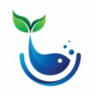
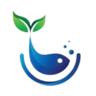
V1.3

Changed region(s): [[0.125, 0.0938, 0.8438, 0.9062], [0.7188, 0.4062, 0.75, 0.4688]]

diff --git a/aquapon.css b/aquapon.css
@@ -1,18 +1,42 @@
 body,html {
-    background-image: linear-gradient(rgb(126, 208, 235),rgb(47, 90, 176));
-    height: 100%;
+    background-color: lightblue;
     margin: 10px;
     font-family: "Comfortaa";
     font-size: 15px;
+    height: 1500px;
+}
+.hide {
+    height: 90px;
+    position: fixed;
+    top: 0;
+    left: 0;
+    right: 0;
+    background-color: lightblue;
+    z-index: 5;
+    text-align: center;
+}
+.hide p {
+    font-size: 30px;
+    margin: 10px auto 0 auto;
 }
 .para-nav, .fish-nav {
     margin: 0 1% 0 1%;
     display: block;
     height: 50px;
+    z-index: 6;
+}
+.para-nav {
+    background-color: black;
 }
 .fish-nav {
-    position: fixed;
-    top: 10px;
+    position: sticky;
+    top: 50px;
+    left: 10px;
+    right: 10px;
+}
+.para-nav {
+    position: sticky;
+    top: 100px;
     left: 10px;
     right: 10px;
 }
@@ -30,7 +54,8 @@ body,html {
     border-bottom-width: 2px;
     font-family: "Comfortaa";
     font-weight: bold;
-    transition: background-color 0.1s;
+    transition: background-color 0.1s, color 0.1s;
+
 }
 .fishlink:hover {
     background-color: rgb(120, 120, 120);
@@ -61,15 +86,25 @@ body,html {
 #Nitrite:hover {background-color: rgb(0, 128, 0);}
 #Ammonia:hover {background-color: rgb(0, 101, 135);}
 
-.content, .desc-tab {
-    margin: -20px 1%;
+.desc-tab {
+    margin: 0 1%;
     display: block;
     color: white;
-    padding: 20px 20px 50px 20px;
+    padding: 25px 20px 50px 20px;
     border: 2px solid black;
     background-color: rgb(0, 0, 0);
     transition: background-color 0.1s;
 }
+.content {
+    margin: 0 1%;
+    display: block;
+    color: white;
+    padding: 10px 20px 50px 20px;
+    border: 2px solid black;
+    background-color: rgb(0, 0, 0);
+    transition: background-color 0.1s;
+}
+
 .info {
     display: block;
 }

diff --git a/aquapon.js b/aquapon.js
@@ -11,11 +11,20 @@ const buttonFish = document.querySelectorAll('.fishlink');
 
 buttonFish.forEach(fish => {
     fish.addEventListener('click', function() {
+        var i;
         fishId = this.id;
         input.value = "";
         output.innerHTML = "Awaiting value...";
         output.style.backgroundColor = "rgb(255,255,255,0.5)";
         desc.innerHTML = `${data.fish[fishId].description}`;
+
+        for (i = 0; i < buttonFish.length; i++) {
+            buttonFish[i].style.backgroundColor = "rgb(80,80,80)";
+            buttonFish[i].style.color = "white";
+        };
+
+        fish.style.backgroundColor = "white";
+        fish.style.color = "black";
     })
 });
 
@@ -41,7 +50,7 @@ buttonPara.forEach(link => {
         if (paraId == "Temperature") {
             enter.innerHTML = "Enter temperature (°C) below:<br><br>"
             content.style.backgroundColor = "rgb(128, 0, 0)";
-            this.style.backgroundColor = "rgb(128, 0, 0)";
+            link.style.backgroundColor = "rgb(128, 0, 0)";
         } else if (paraId == "pH") {
             enter.innerHTML = "Enter pH below:<br><br>";
             content.style.backgroundColor = "rgb(128, 83, 0)";

diff --git a/aquapon.html b/aquapon.html
@@ -8,9 +8,12 @@
     <link rel="preconnect" href="https://fonts.gstatic.com" crossorigin>
     <link href="https://fonts.googleapis.com/css2?family=Comfortaa:wght@300..700&display=swap" rel="stylesheet">
     <title>Aquaponics System</title>
-    <link rel="icon" type="image/png" href="/images/icon-96px.png">
+    <link rel="icon" type="image/png" href="/images/icon-large.png">
 </head>
 <body id="bg">
+    <div class="hide">
+        <p>AQUAPONICS SYSTEM V1.2 :3</p>
+    </div>
     <div class="fish-nav">
         <button class="fishlink" id="Barramundi">Barramundi</button>
         <button class="fishlink" id="Murray Cod">Murray Cod</button>
